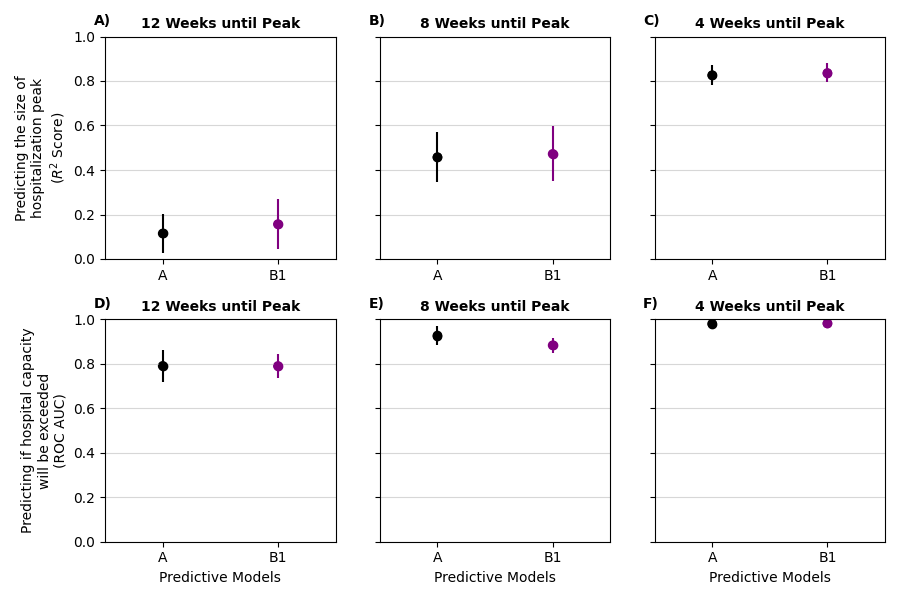
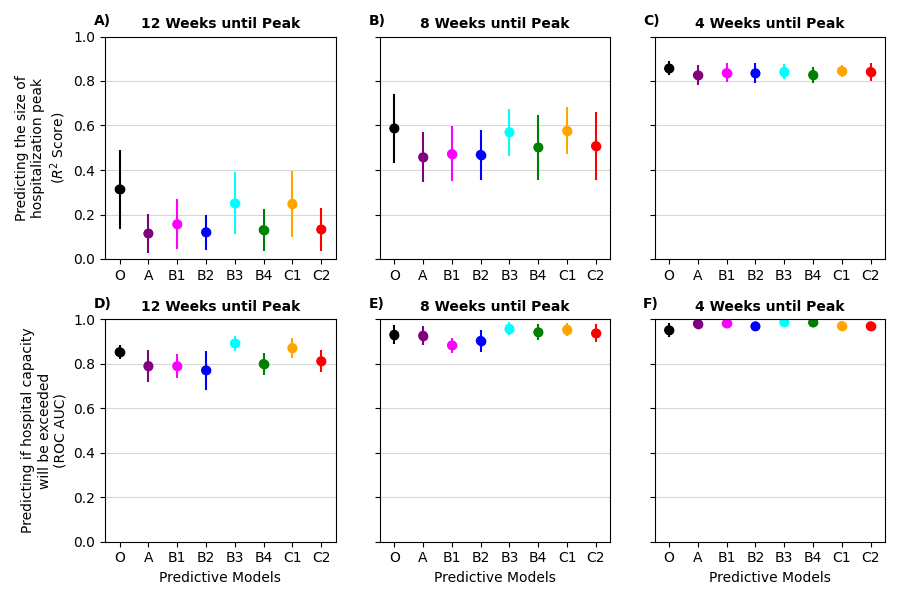
updated results with all models

diff --git a/EvalPredictSurgeSize.py b/EvalPredictSurgeSize.py
@@ -5,7 +5,7 @@ from covid_prediction.print_features import print_selected_features
 from covid_visualization.plot_prediction import plot_performance
 from definitions import ROOT_DIR, get_dataset_labels, get_short_outcome
 
-MODELS = (A, B1) # (Zero, A, B1, B2, B3, B4, C1, C2)
+MODELS = (Zero, A, B1, B2, B3, B4, C1, C2)
 OUTCOMES = ('Maximum hospitalization rate', 'If hospitalization threshold passed')
 WEEKS = (-12, -8, -4)
 
@@ -63,8 +63,7 @@ def evaluate(noise_coeff, bias_delay=None):
                       .format(short_outcome, label))
 
         # plot
-        plot_performance(short_outcome=short_outcome,
-                         noise_coeff=noise_coeff, bias_delay=bias_delay)
+        plot_performance(noise_coeff=noise_coeff, bias_delay=bias_delay)
 
         # print features by model
         print_selected_features(short_outcome=short_outcome,
